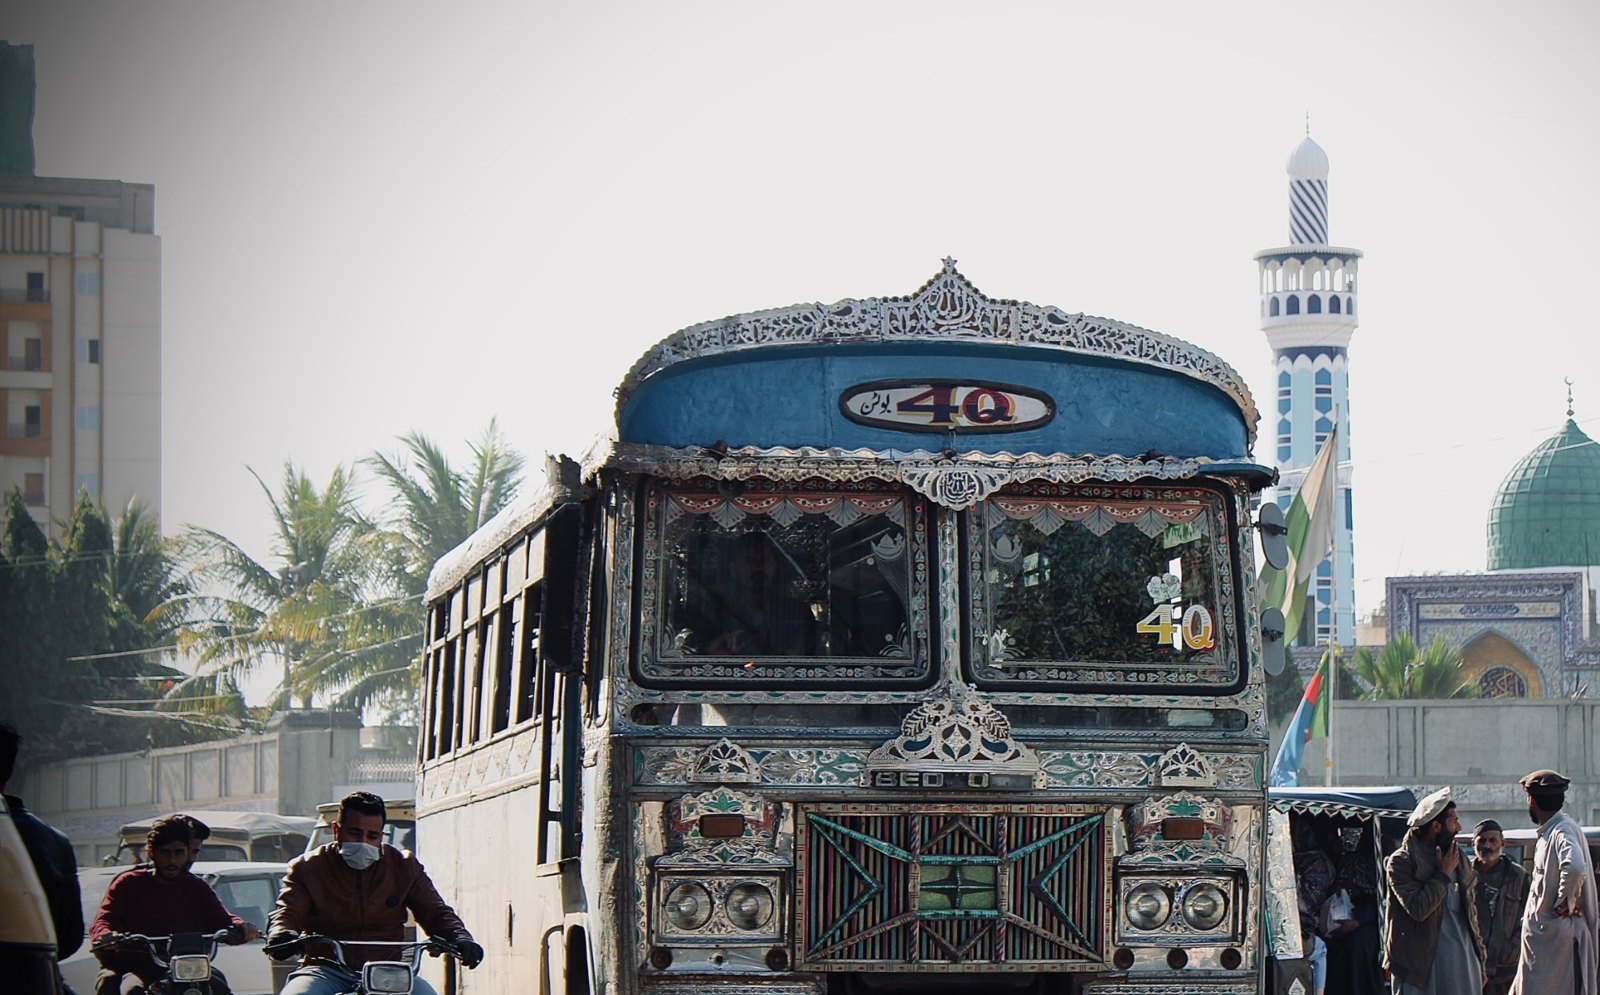
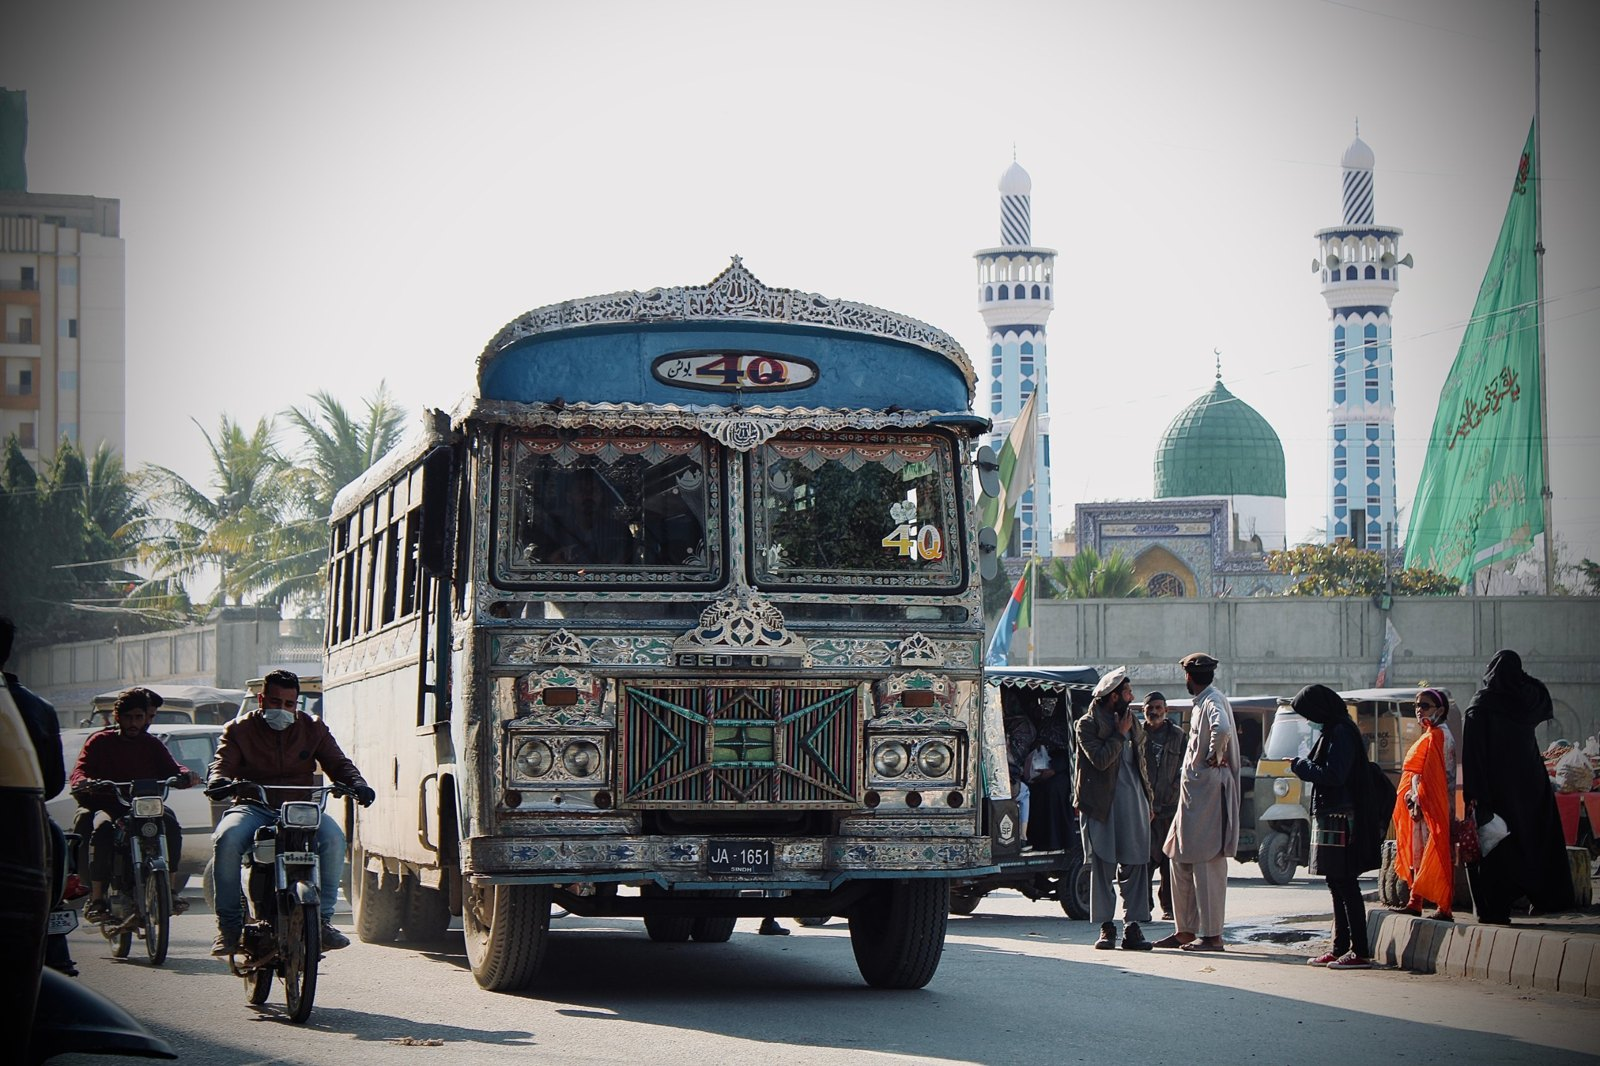
Remove photo captions, uncrop bus photo, crop tag off hero photo
Claude-Session: https://claude.ai/code/session_013MinTibsCnadXCpo6M94Yk

diff --git a/index.html b/index.html
@@ -126,8 +126,6 @@ dialog.pm[open]{animation:pop .28s ease-out}
 .photo-grid .ph{border-radius:12px;overflow:hidden;border:1px solid var(--line);background:var(--well)}
 .photo-grid img{width:100%;height:auto;display:block;transition:transform .5s ease}
 .photo-grid figure:hover img{transform:scale(1.03)}
-.photo-grid figcaption{font-family:'JetBrains Mono',monospace;font-size:11px;color:var(--dim);white-space:nowrap;overflow:hidden;text-overflow:ellipsis}
-.photo-grid figcaption span{color:var(--gold)}
 @media (max-width:600px){.photo-grid{gap:20px}.photo-grid figure{flex:1 1 100%}}
 
 /* reads */
@@ -184,7 +182,7 @@ footer b{font-weight:400;color:var(--gold)}
     <div class="stage">
       <div class="ring" aria-hidden="true"></div>
       <div class="orbit" aria-hidden="true"></div>
-      <img src="{{ '/assets/images/asbah-blazer.png' | relative_url }}" alt="Asbah Talal in a navy blazer">
+      <img src="{{ '/assets/images/asbah-blazer-crop.png' | relative_url }}" alt="Asbah Talal in a navy blazer">
       <svg class="star drift" aria-hidden="true" viewBox="0 0 100 100" style="left:-6px;top:70px;width:84px;height:84px"><polygon points="50,4 61,38 97,38 68,59 79,93 50,72 21,93 32,59 3,38 39,38" fill="none" stroke="#E8E4DA" stroke-width="2.5" stroke-linejoin="round"/></svg>
       <svg class="star drift2" aria-hidden="true" viewBox="0 0 100 100" style="right:-10px;top:170px;width:60px;height:60px"><polygon points="50,4 61,38 97,38 68,59 79,93 50,72 21,93 32,59 3,38 39,38" fill="none" stroke="#F2B544" stroke-width="3" stroke-linejoin="round"/></svg>
       <svg class="star drift" aria-hidden="true" viewBox="0 0 100 100" style="left:30px;bottom:60px;width:44px;height:44px"><polygon points="50,4 61,38 97,38 68,59 79,93 50,72 21,93 32,59 3,38 39,38" fill="none" stroke="#E8E4DA" stroke-width="3.5" stroke-linejoin="round"/></svg>
@@ -317,13 +315,13 @@ footer b{font-weight:400;color:var(--gold)}
 <section class="wrap section" aria-label="Photography">
   <div class="car-head"><span class="eyebrow">THROUGH MY LENS</span><h2>Photography</h2></div>
   <div class="photo-grid">
-    <figure style="--ar:0.74"><div class="ph"><img src="{{ '/assets/images/photos/kebab-stall.jpg' | relative_url }}" alt="A boy in a red jacket fanning coals at a kebab stall at night" loading="lazy"></div><figcaption><span>FR 01</span> · Seekh kebabs over the coals</figcaption></figure>
-    <figure style="--ar:1.608"><div class="ph"><img src="{{ '/assets/images/photos/karachi-bus.jpg' | relative_url }}" alt="A decorated bus on route 4Q in front of a mosque in Karachi" loading="lazy"></div><figcaption><span>FR 02</span> · Karachi</figcaption></figure>
-    <figure style="--ar:0.733"><div class="ph"><img src="{{ '/assets/images/photos/empress-market-door.jpg' | relative_url }}" alt="Shoppers entering the blue doorway of Empress Market" loading="lazy"></div><figcaption><span>FR 03</span> · Empress Market, Karachi</figcaption></figure>
-    <figure style="--ar:1.626"><div class="ph"><img src="{{ '/assets/images/photos/window-to-the-lake.jpg' | relative_url }}" alt="A beach, pier and sailboat framed by three windows" loading="lazy"></div><figcaption><span>FR 04</span> · Through the window</figcaption></figure>
-    <figure style="--ar:0.685"><div class="ph"><img src="{{ '/assets/images/photos/brooklyn-bridge.jpg' | relative_url }}" alt="A sailboat passing under the Brooklyn Bridge" loading="lazy"></div><figcaption><span>FR 05</span> · Brooklyn Bridge, NYC</figcaption></figure>
-    <figure style="--ar:1.5"><div class="ph"><img src="{{ '/assets/images/photos/water-lily.jpg' | relative_url }}" alt="A pale pink water lily among lily pads on dark water" loading="lazy"></div><figcaption><span>FR 06</span> · Water lily</figcaption></figure>
-    <figure style="--ar:0.586"><div class="ph"><img src="{{ '/assets/images/photos/empress-market-tower.jpg' | relative_url }}" alt="The sandstone clock tower of Empress Market" loading="lazy"></div><figcaption><span>FR 07</span> · Clock tower, Karachi</figcaption></figure>
+    <figure style="--ar:0.74"><div class="ph"><img src="{{ '/assets/images/photos/kebab-stall.jpg' | relative_url }}" alt="A boy in a red jacket fanning coals at a kebab stall at night" loading="lazy"></div></figure>
+    <figure style="--ar:1.5"><div class="ph"><img src="{{ '/assets/images/photos/karachi-bus.jpg' | relative_url }}" alt="A decorated bus on route 4Q in front of a mosque in Karachi" loading="lazy"></div></figure>
+    <figure style="--ar:0.733"><div class="ph"><img src="{{ '/assets/images/photos/empress-market-door.jpg' | relative_url }}" alt="Shoppers entering the blue doorway of Empress Market" loading="lazy"></div></figure>
+    <figure style="--ar:1.626"><div class="ph"><img src="{{ '/assets/images/photos/window-to-the-lake.jpg' | relative_url }}" alt="A beach, pier and sailboat framed by three windows" loading="lazy"></div></figure>
+    <figure style="--ar:0.685"><div class="ph"><img src="{{ '/assets/images/photos/brooklyn-bridge.jpg' | relative_url }}" alt="A sailboat passing under the Brooklyn Bridge" loading="lazy"></div></figure>
+    <figure style="--ar:1.5"><div class="ph"><img src="{{ '/assets/images/photos/water-lily.jpg' | relative_url }}" alt="A pale pink water lily among lily pads on dark water" loading="lazy"></div></figure>
+    <figure style="--ar:0.586"><div class="ph"><img src="{{ '/assets/images/photos/empress-market-tower.jpg' | relative_url }}" alt="The sandstone clock tower of Empress Market" loading="lazy"></div></figure>
   </div>
 </section>
 
